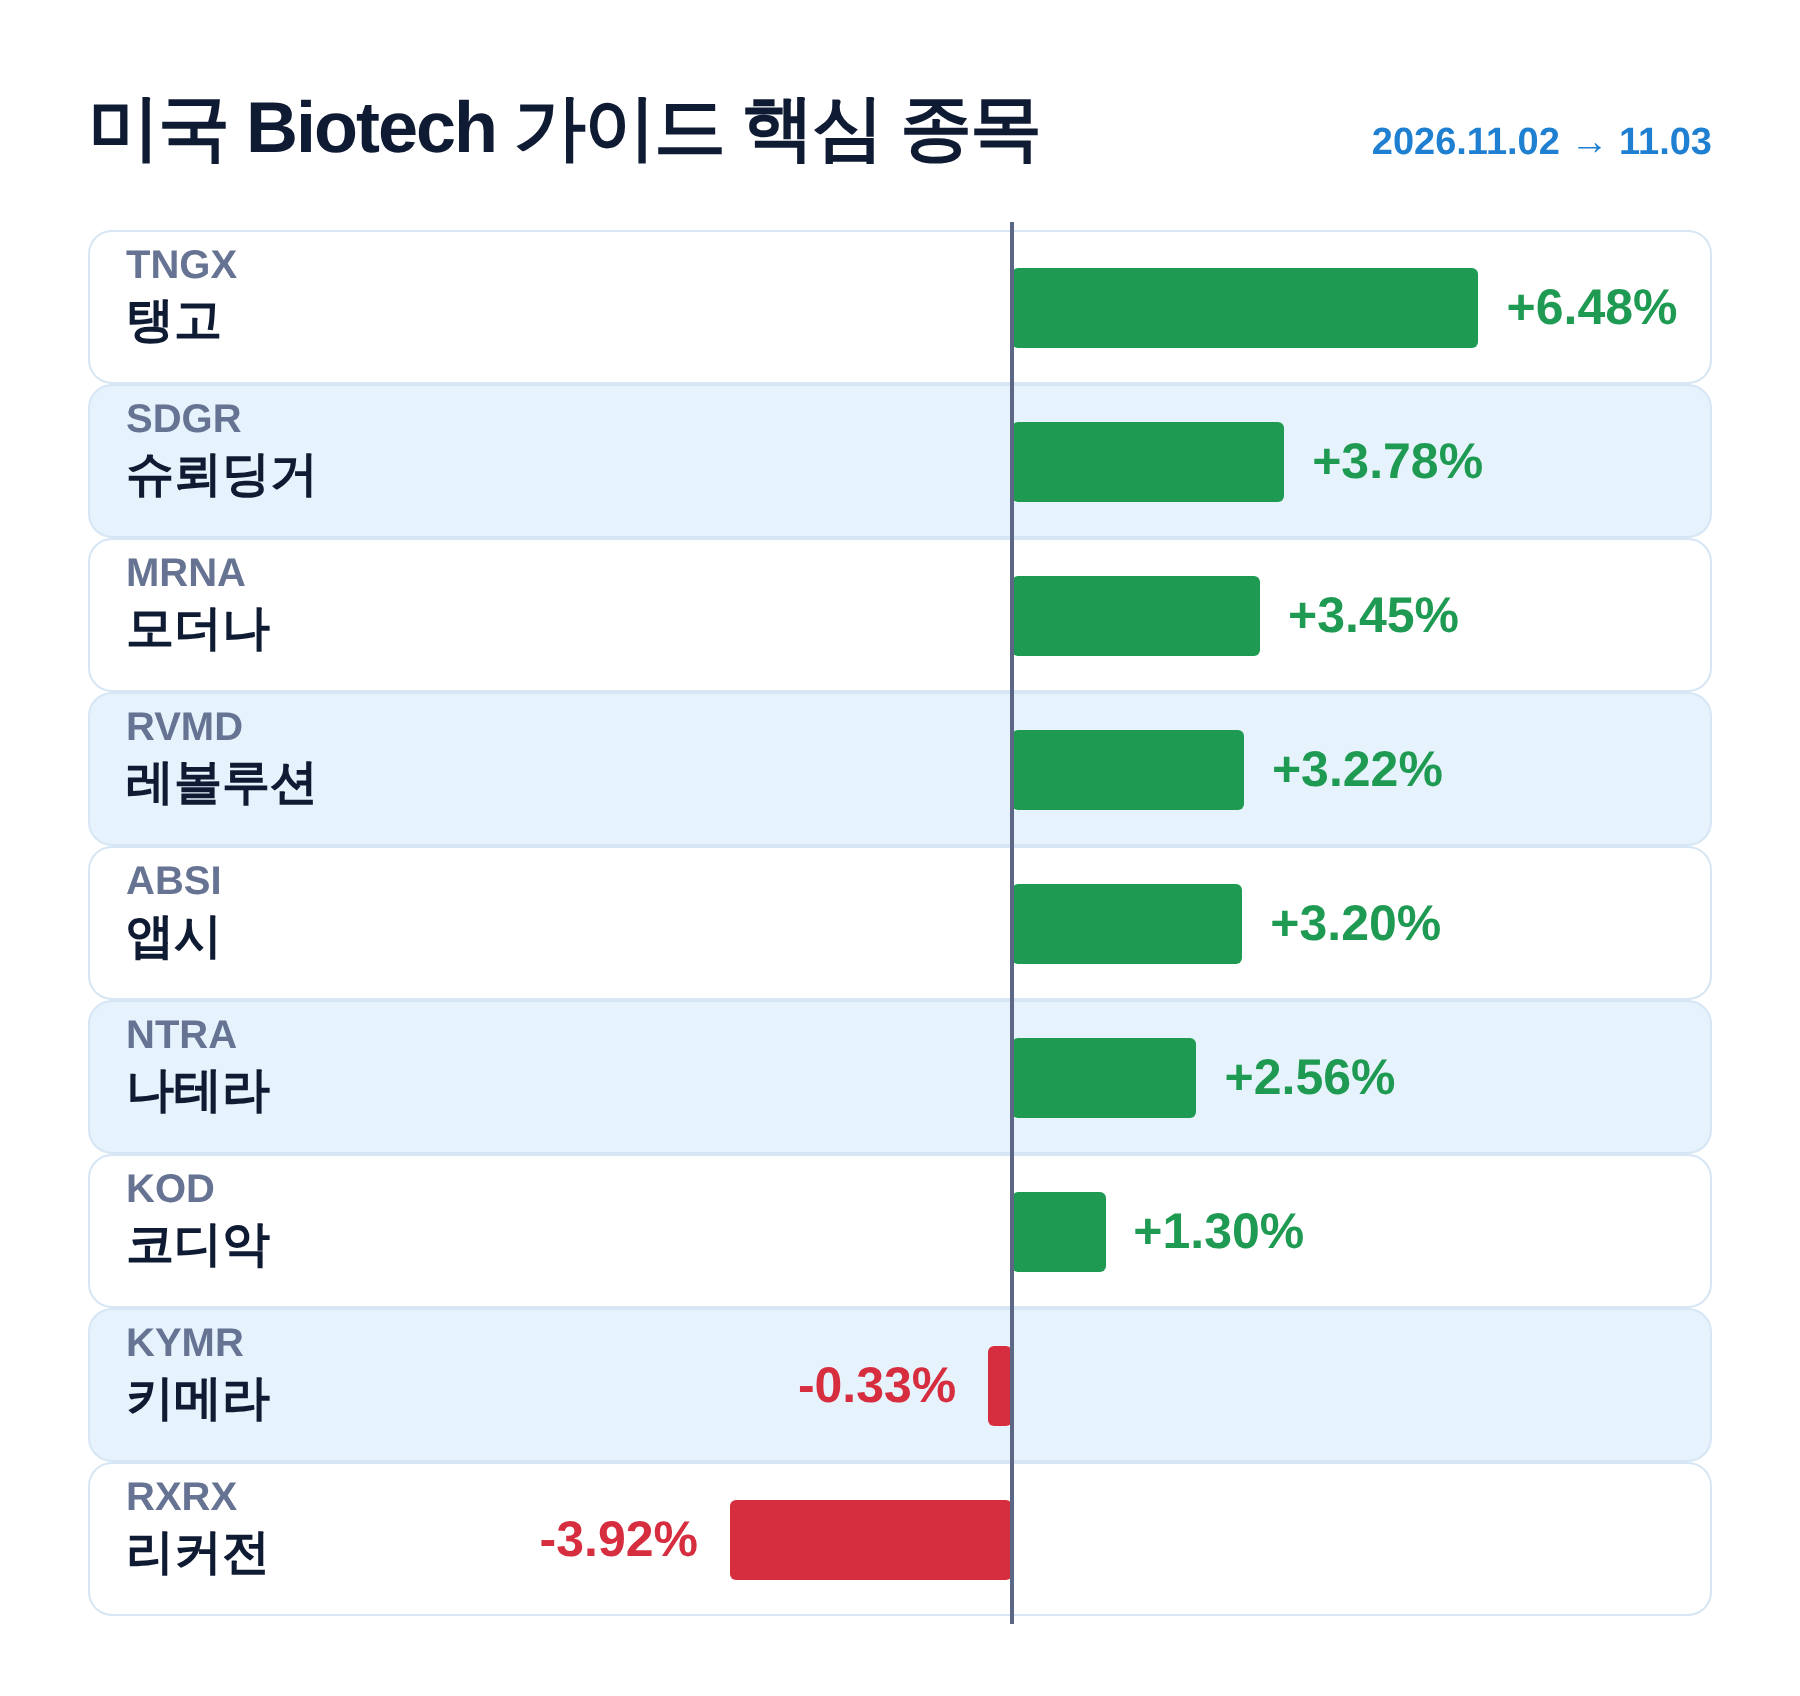
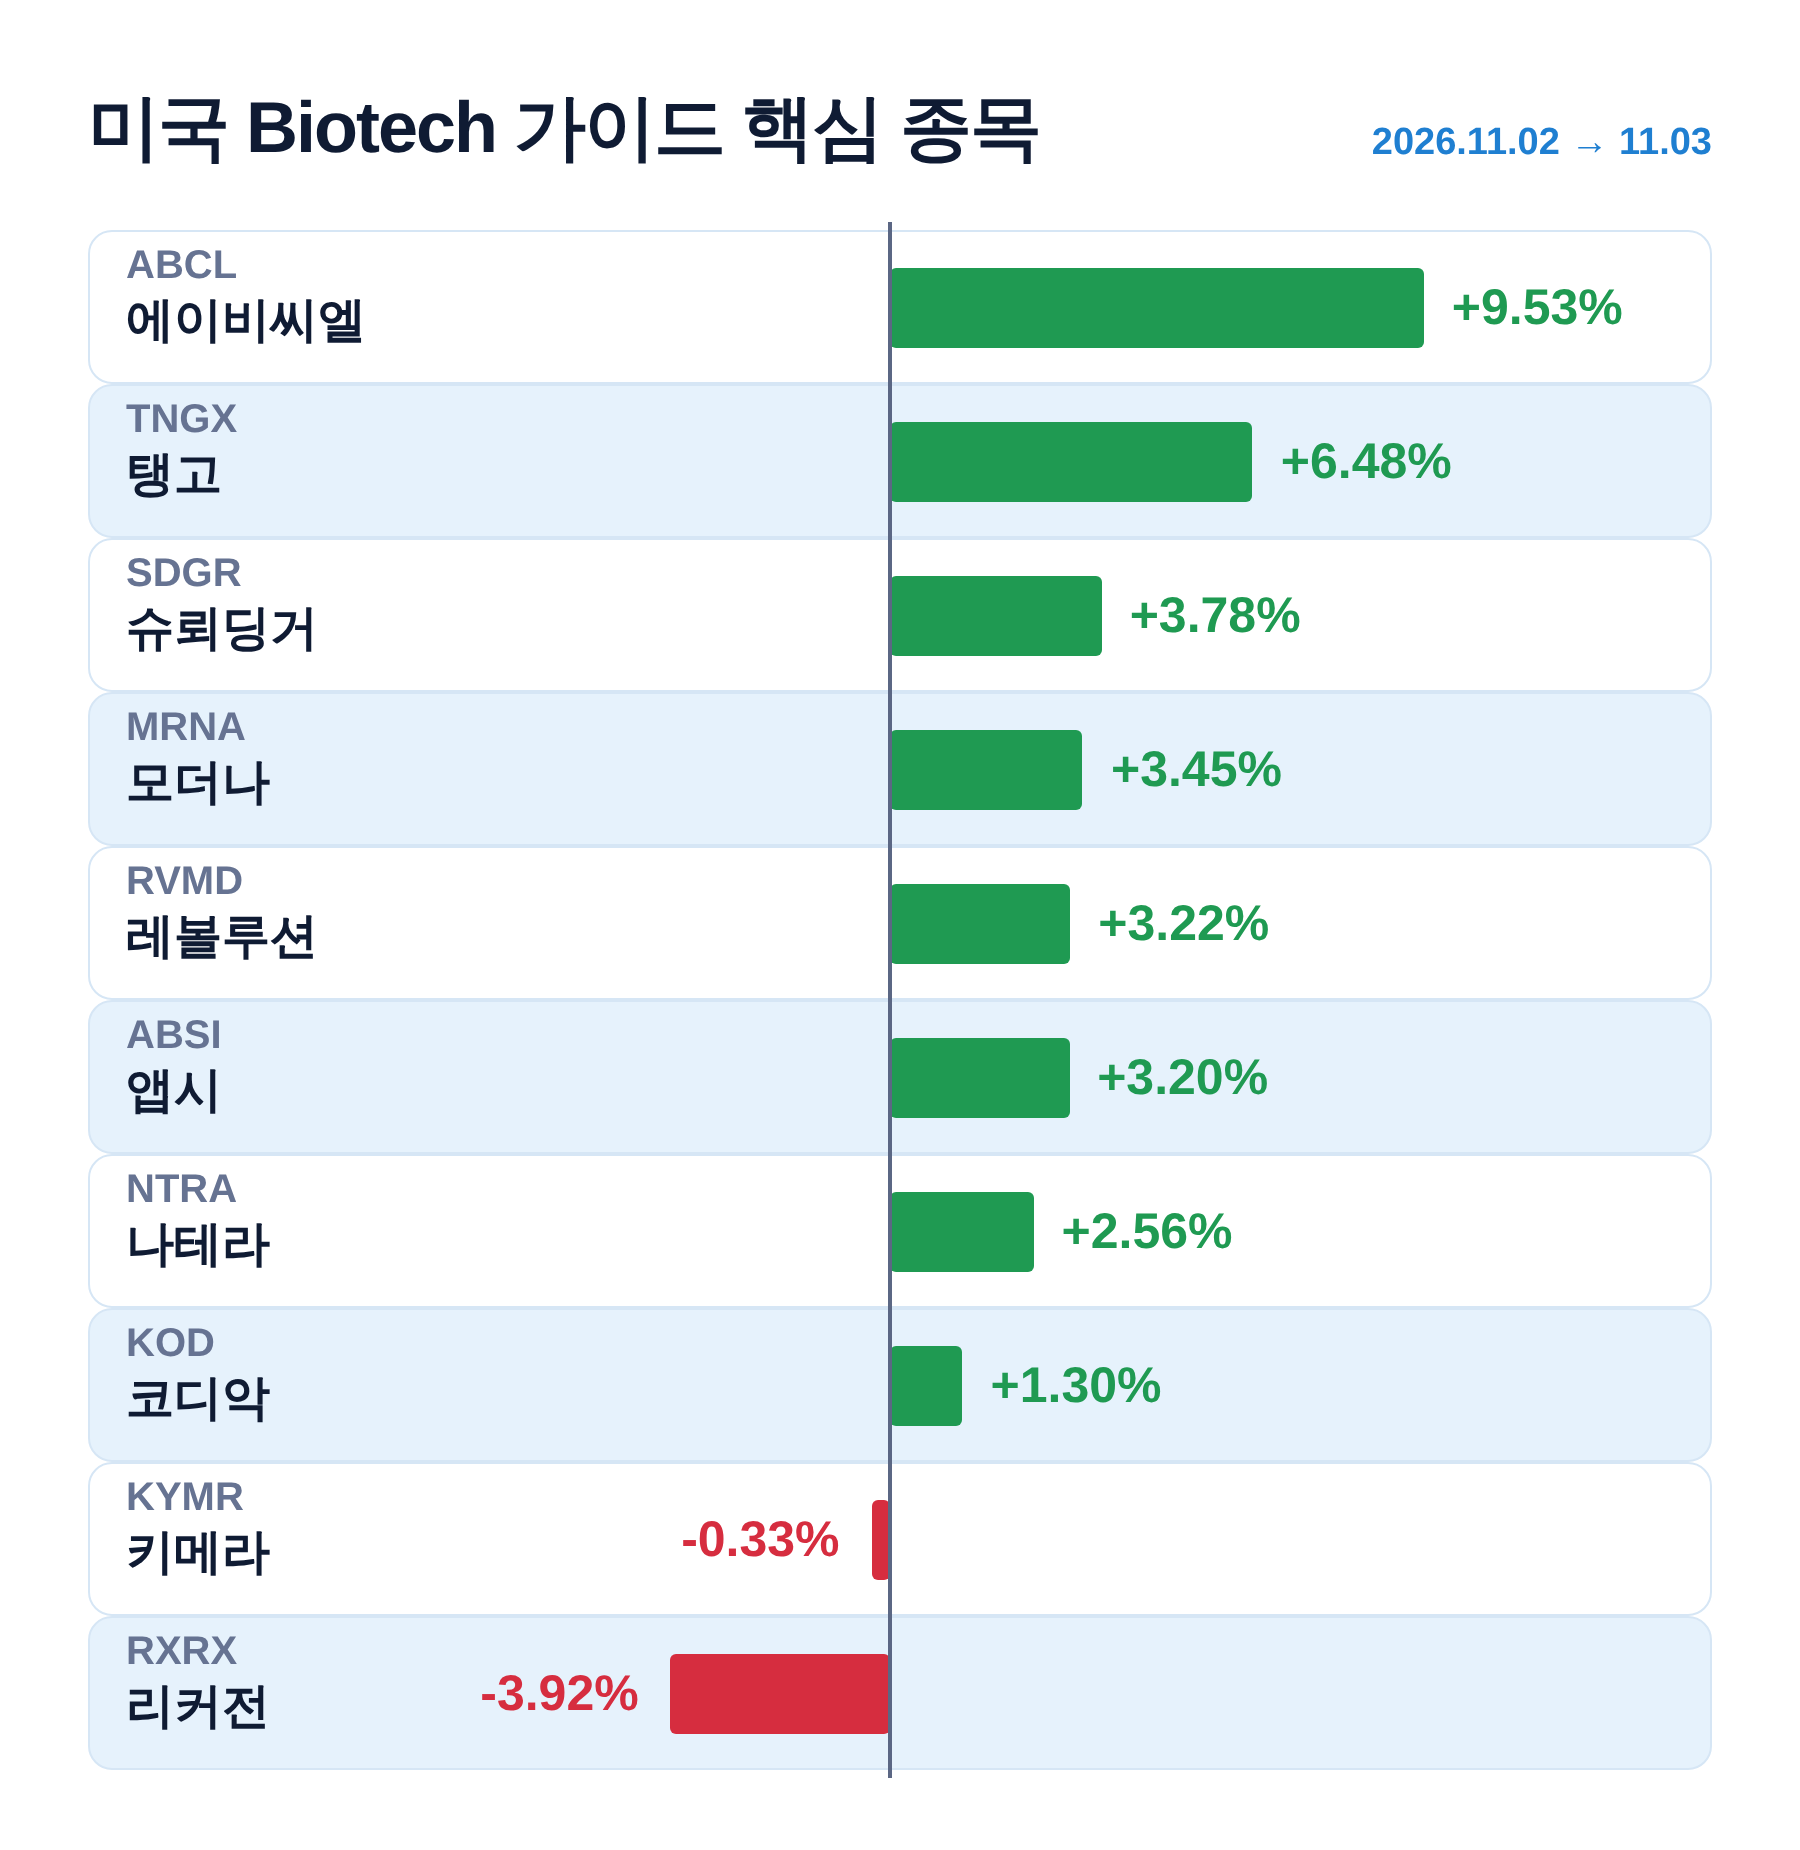
Tornado chart: add ABCL, rescale bars
Claude-Session: https://claude.ai/code/session_01NG8EEkhpk8MGrziH94CW11

diff --git a/biotech_tornado.html b/biotech_tornado.html
@@ -28,9 +28,9 @@ h1{margin:0;white-space:nowrap;font-size:36px;font-weight:800;letter-spacing:-1p
 <div class="rows" id="rows"><div class="axis" id="ax"></div></div>
 </div></div>
 <script>
-const D=[["TNGX","탱고",21.76,23.17],["SDGR","슈뢰딩거",26.19,27.18],["MRNA","모더나",220.83,228.44],["RVMD","레볼루션",188.17,194.23],["ABSI","앱시",9.69,10],["NTRA","나테라",378.92,388.63],["KOD","코디악",97.625,98.89],["KYMR","키메라",127.51,127.09],["RXRX","리커전",3.83,3.68]]
+const D=[["ABCL","에이비씨엘",11.12,12.18],["TNGX","탱고",21.76,23.17],["SDGR","슈뢰딩거",26.19,27.18],["MRNA","모더나",220.83,228.44],["RVMD","레볼루션",188.17,194.23],["ABSI","앱시",9.69,10],["NTRA","나테라",378.92,388.63],["KOD","코디악",97.625,98.89],["KYMR","키메라",127.51,127.09],["RXRX","리커전",3.83,3.68]]
 .map(d=>({t:d[0],n:d[1],p:d[2],q:d[3],c:(d[3]/d[2]-1)*100})).sort((a,b)=>b.c-a.c);
-const Z=505-44,S=36,R=document.getElementById('rows');
+const Z=400,S=28,R=document.getElementById('rows');
 document.getElementById('ax').style.left=Z+'px';
 document.getElementById('per').textContent='2026.11.02 → 11.03';
 D.forEach((d,i)=>{const w=Math.abs(d.c)*S,up=d.c>=0,f=(up?'+':'')+d.c.toFixed(2)+'%';
